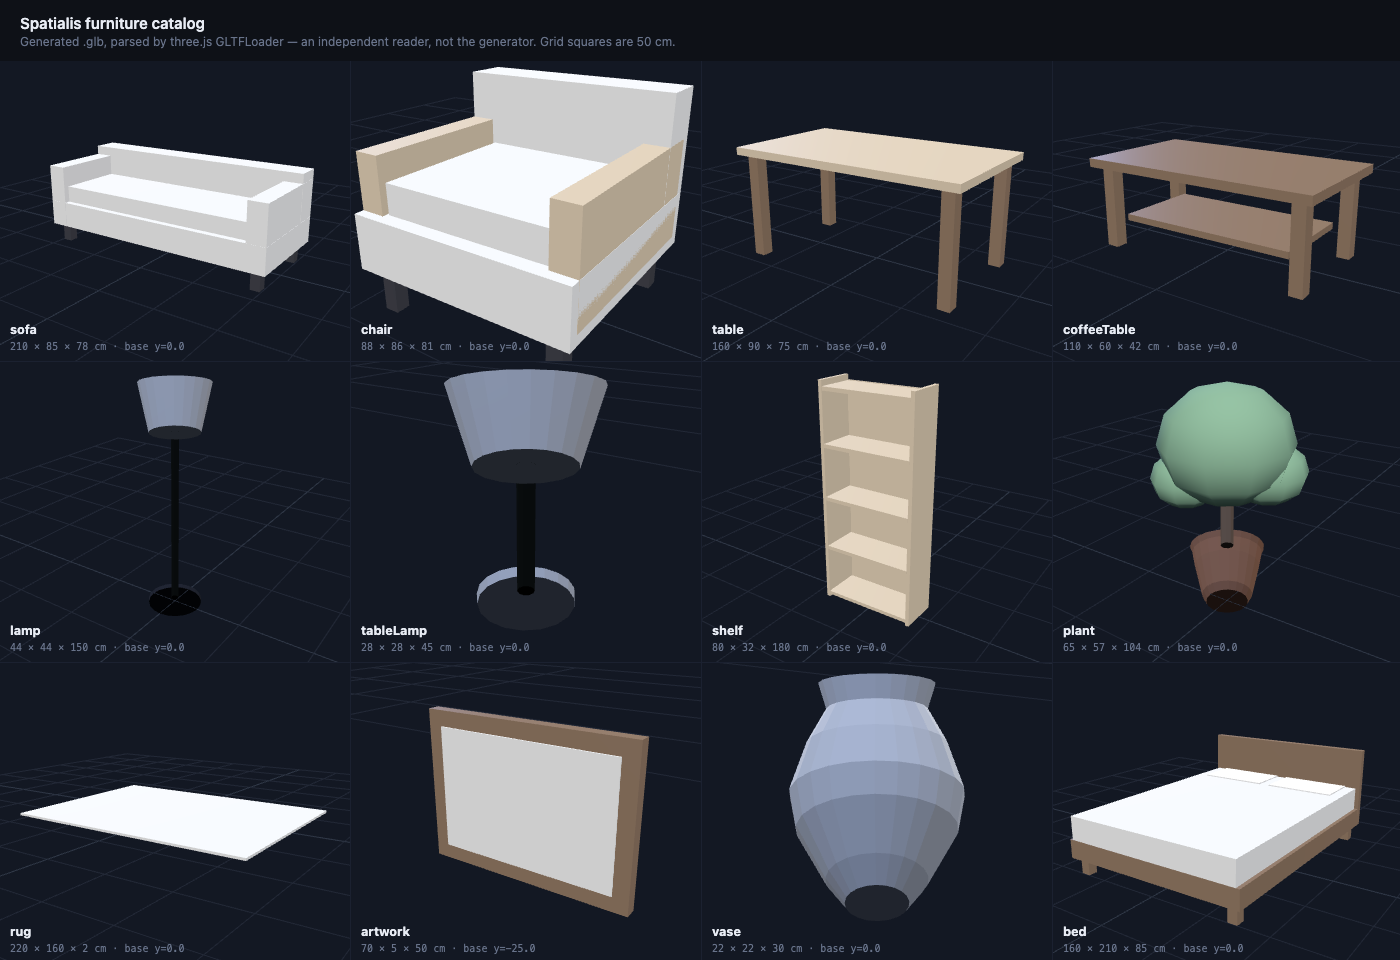
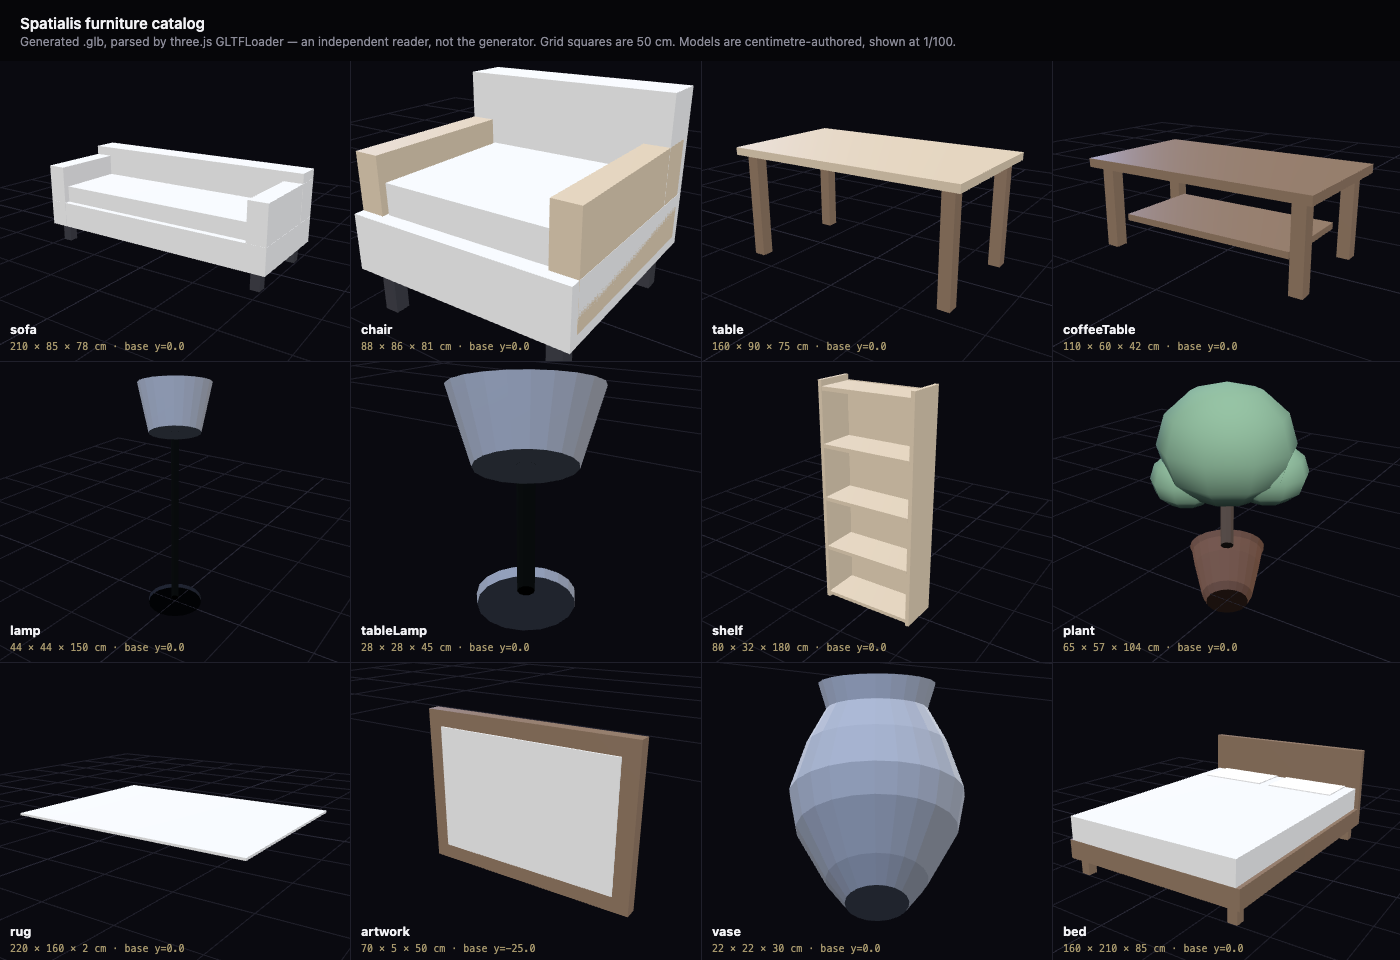
feat(simulator): open the floor plan from a link; catalog page and docs images on the new palette
?view=plan selects the floor plan on load, so a shared scene link can show
the view the anchor engine reasons in. The catalog preview page joins the
restyle, and the README's floor-plan and catalog screenshots are
regenerated to match.

diff --git a/Tools/preview_furniture.html b/Tools/preview_furniture.html
@@ -2,15 +2,15 @@
 <meta charset="utf-8">
 <title>Spatialis furniture contact sheet</title>
 <style>
-  body { margin:0; background:#0e1117; color:#e8ecf4;
+  body { margin:0; background:#060609; color:#f2f2f5;
          font:13px -apple-system,BlinkMacSystemFont,"Segoe UI",sans-serif; }
   h1 { font-size:15px; margin:14px 20px 2px; font-weight:600; }
-  p.sub { margin:0 20px 12px; color:#68738a; font-size:12px; }
-  #grid { display:grid; grid-template-columns:repeat(4,1fr); gap:1px; background:#1b2130; }
-  .cell { background:#131823; position:relative; }
+  p.sub { margin:0 20px 12px; color:#8b8b98; font-size:12px; }
+  #grid { display:grid; grid-template-columns:repeat(4,1fr); gap:1px; background:#20202b; }
+  .cell { background:#0a0a10; position:relative; }
   .cap { position:absolute; left:10px; bottom:8px; pointer-events:none; }
   .cap b { display:block; font-size:12.5px; }
-  .cap span { font-family:ui-monospace,Menlo,monospace; font-size:10px; color:#68738a; }
+  .cap span { font-family:ui-monospace,Menlo,monospace; font-size:10px; color:#a5966b; }
   .err { color:#f87171; font-family:ui-monospace,monospace; font-size:11px; padding:10px; }
 </style>
 <h1>Spatialis furniture catalog</h1>
@@ -40,7 +40,7 @@ for (const key of KEYS) {
   grid.appendChild(cell);
 
   const scene = new THREE.Scene();
-  scene.background = new THREE.Color(0x131823);
+  scene.background = new THREE.Color(0x0a0a10);
   const cam = new THREE.PerspectiveCamera(32, W / H, 0.01, 100);
   const renderer = new THREE.WebGLRenderer({ antialias: true });
   renderer.setSize(W, H);
@@ -54,7 +54,7 @@ for (const key of KEYS) {
   key2.position.set(-4, 2, -3); scene.add(key2);
 
   // 50cm grid = 0.5 world units, since models are authored in metres.
-  const g = new THREE.GridHelper(6, 12, 0x2f3746, 0x222836);
+  const g = new THREE.GridHelper(6, 12, 0x2a2a37, 0x20202b);
   scene.add(g);
 
   loader.load(`/Assets/Prefabs/${key}.glb`, (gltf) => {

diff --git a/Simulator/simulator.js b/Simulator/simulator.js
@@ -786,7 +786,9 @@ btnPlan.addEventListener("click", () => setView("plan"));
 // A scene can be driven from the URL, which makes the simulator scriptable for
 // headless screenshots and lets an arranged room be shared as a link:
 //   ?cmd=Give me a navy velvet sofa|Make it twice as big
-const fromUrl = new URLSearchParams(location.search).get("cmd");
+const params = new URLSearchParams(location.search);
+if (params.get("view") === "plan") setView("plan");
+const fromUrl = params.get("cmd");
 const BOOT = fromUrl
   ? fromUrl.split("|").map((c) => c.trim()).filter(Boolean)
   : ["Spawn a Scandinavian lounge chair by the wall", "Add a floating marble coffee table",
